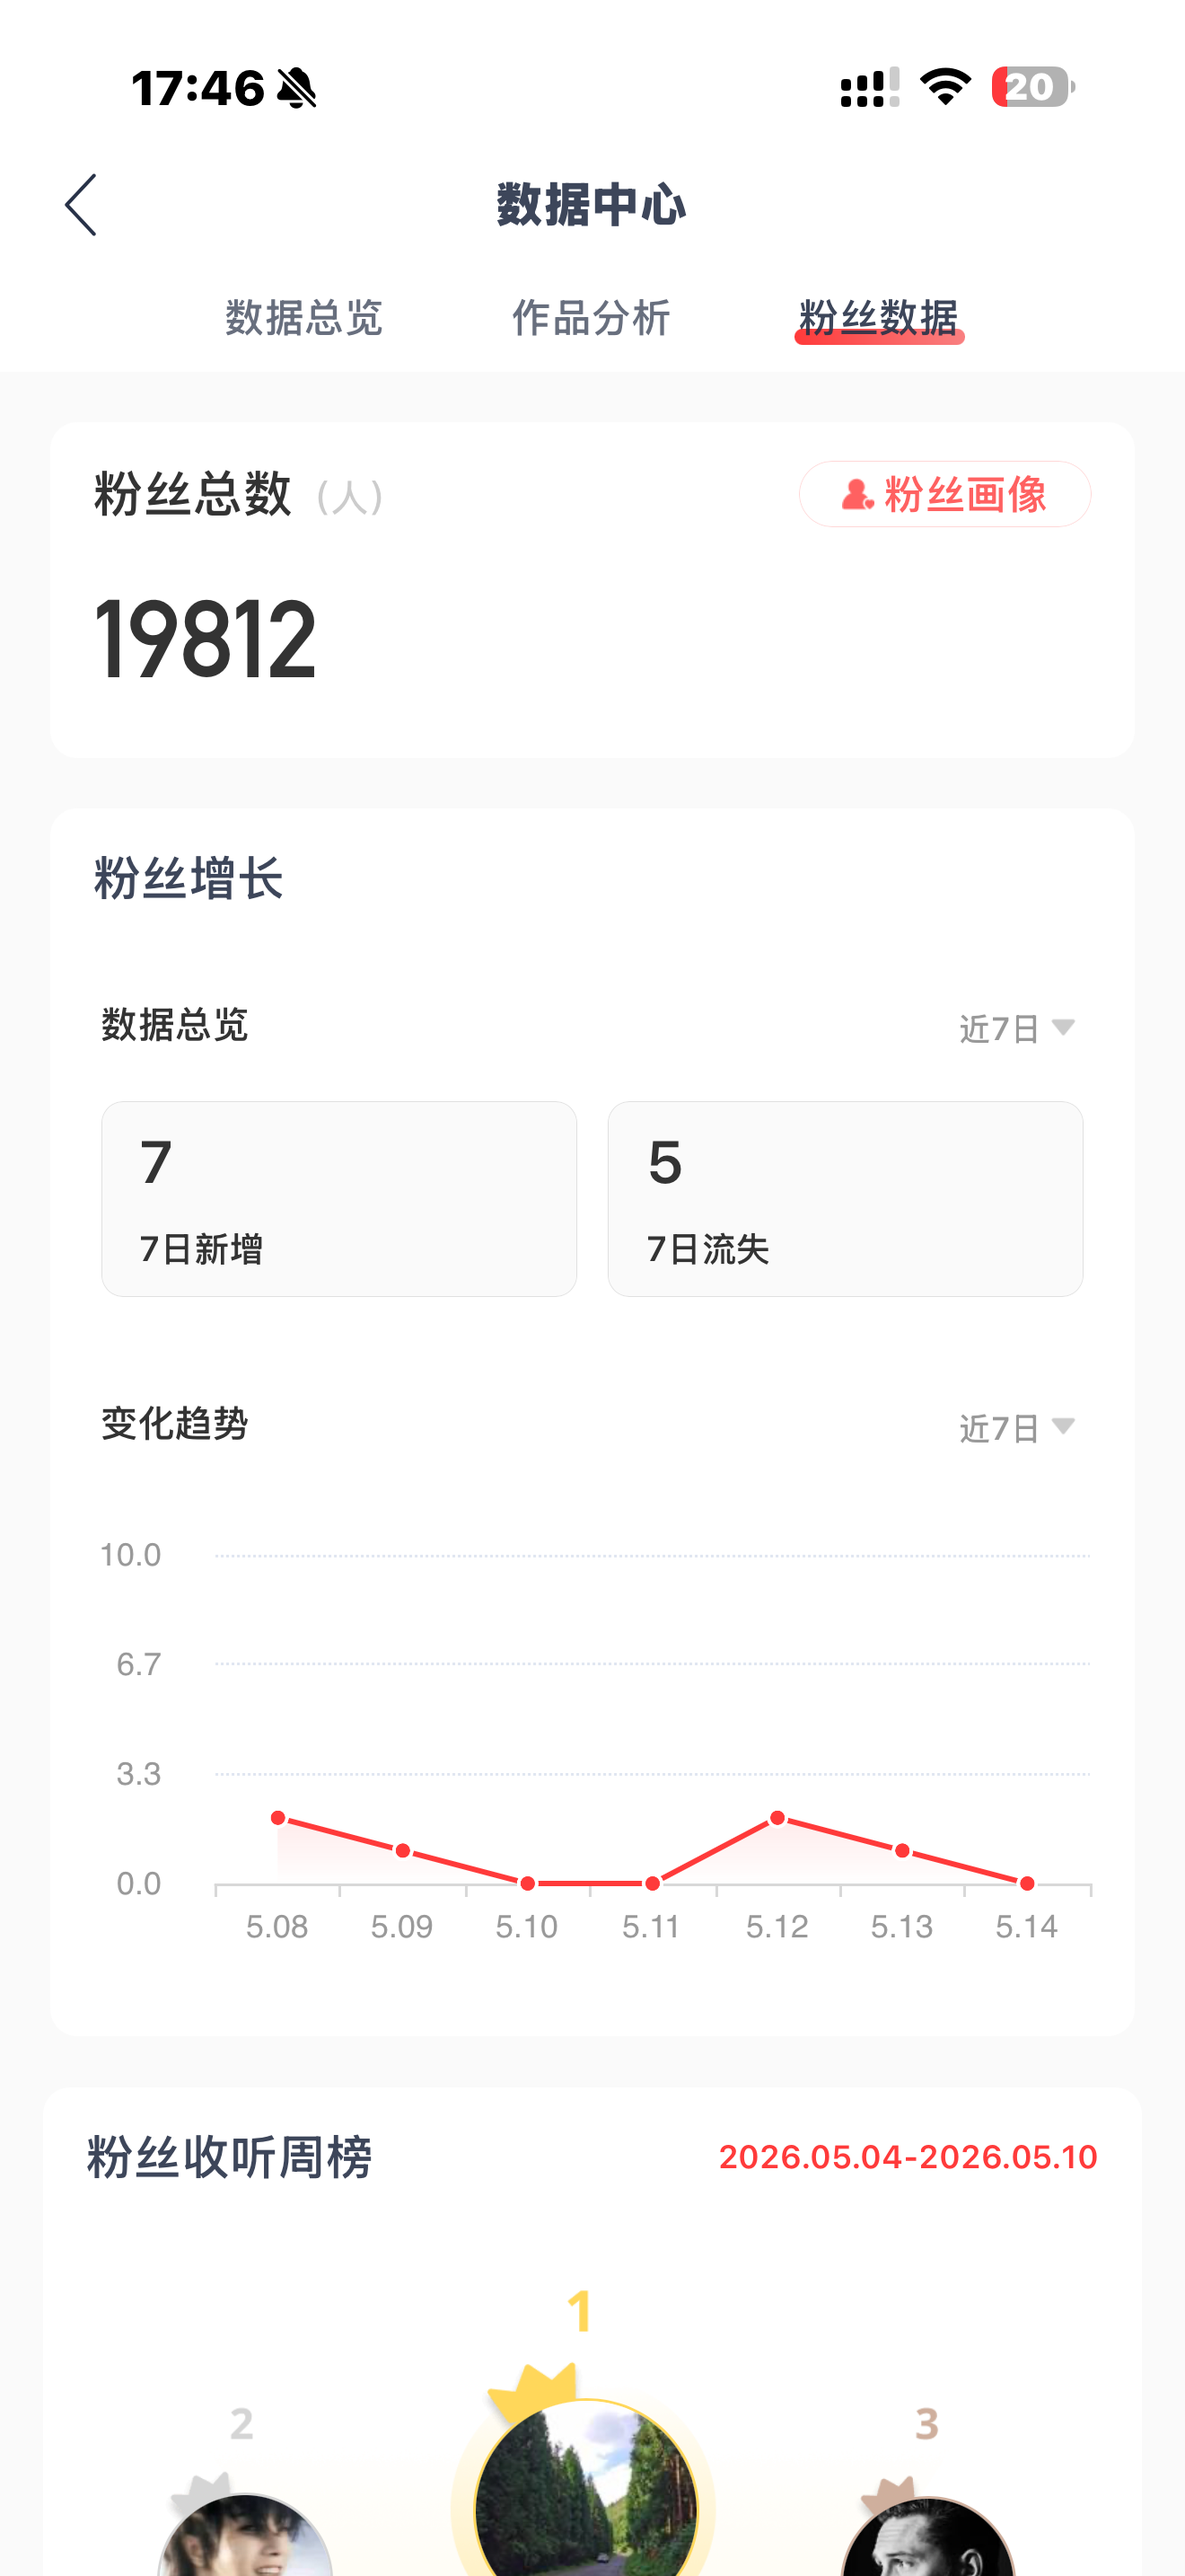
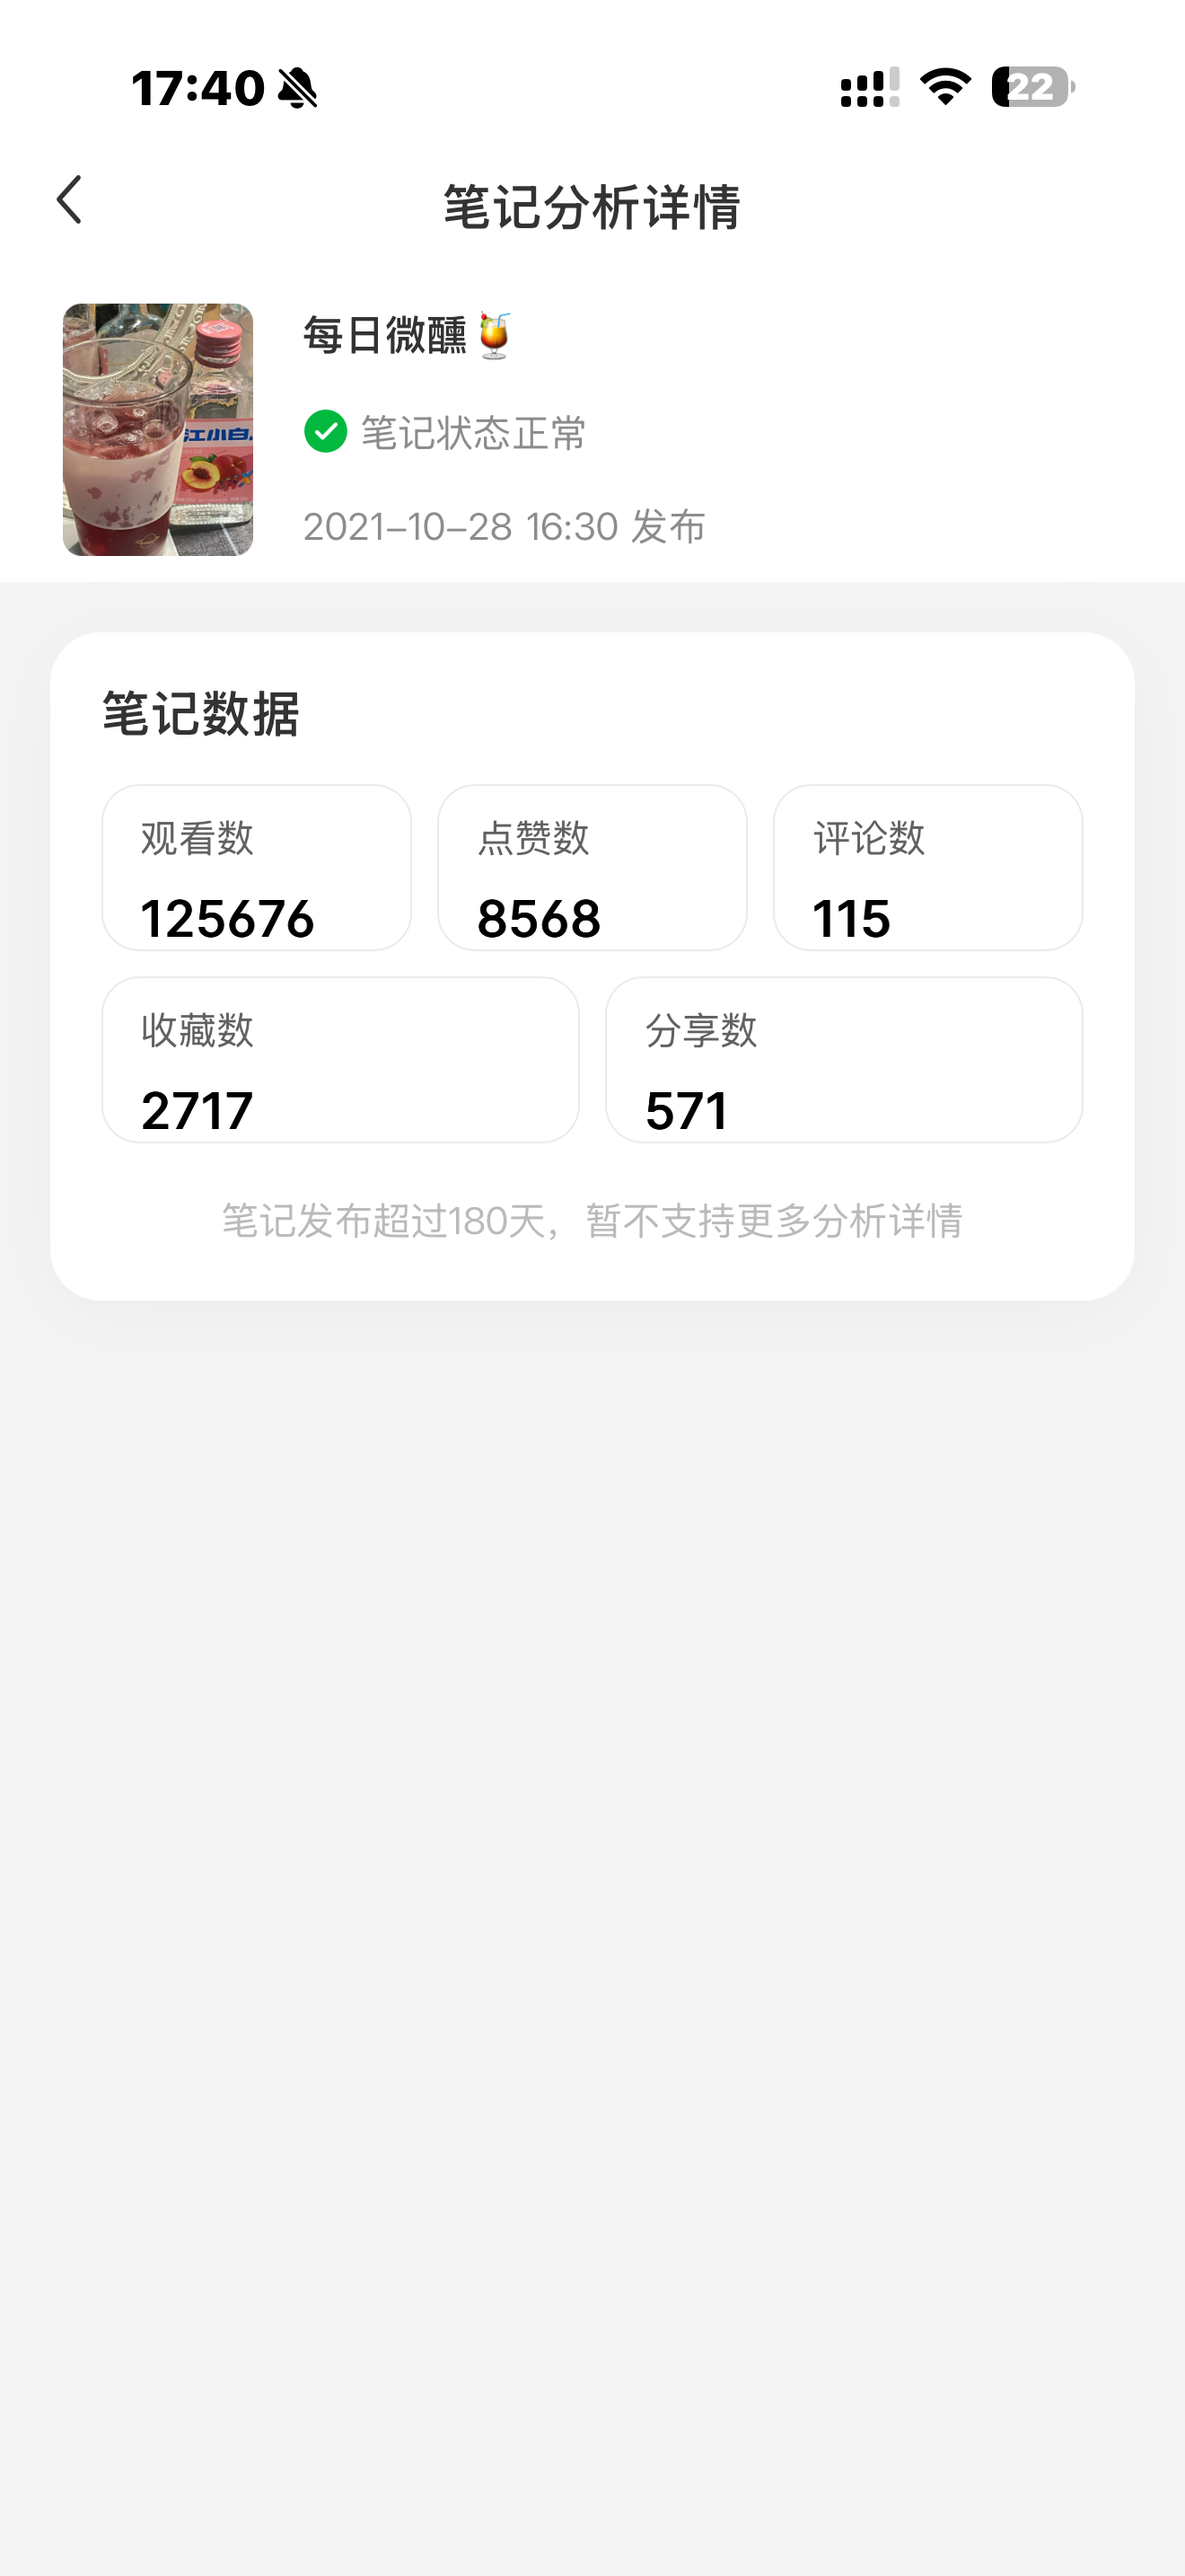
refactor: Remove outdated project from constants
Removes the "Process & Execution" project from the constants, as it is no longer relevant or featured in the portfolio. This simplifies the project data and ensures consistency.

diff --git a/src/constants.ts b/src/constants.ts
@@ -150,13 +150,6 @@ export const PORTFOLIO_DOCS = [
     description: { en: "A visual showcase of profile pages across streaming and social platforms.", zh: "核心作品与社交平台主页的视觉呈现。" },
     format: "GALLERY / VISUAL",
     action: { en: "VIEW", zh: "查看" }
-  },
-  {
-    id: "04",
-    title: { en: "Process & Execution", zh: "流程与执行" },
-    description: { en: "Behind-the-scenes methodology breakdown.", zh: "设计方法论与执行流程拆解。" },
-    format: "MP4 / PROCESS",
-    action: { en: "WATCH", zh: "观看" }
   }
 ];
 
